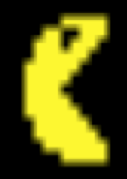
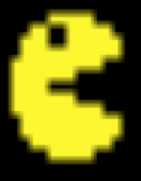
PacMan moves

diff --git a/Sprites.py b/Sprites.py
@@ -4,30 +4,37 @@ This module contains all of the classes responsible for controlling the sprites
 '''
 
 class Sprite:
-    def __init__(self, imageDir, start_x, start_y, is_CPU=True):                                                   # List/array of the images to use to render sprite.
+    def __init__(self, imageDir, start_x, start_y, is_CPU=True):
         self._current_x = start_x                                               # Current x coord.
         self._current_y = start_y                                               # Current y coord.
         self._imageDir = imageDir
-        self._current_image = './' + self._imageDir + '/right1.png'                                                # The current image that the sprite should be drawn as.
+        self._current_image = './' + self._imageDir + '/right1.png'             # The current image that the sprite should be drawn as.
+        self._image_index = 0
         self._is_CPU_controlled=is_CPU                                          # Is controlled by the CPU? By default, yes.
 
     # Move sprite left..
     def move_left(self):
         self._current_x -= 1
-        self._current_image = './' + self._imageDir + '/left1.png'
+        self._current_image = './' + self._imageDir + '/left' + str(self._image_index) + '.png'
+        self._image_index = (self._image_index + 1) % 3
 
     # Move sprite right
     def move_right(self):
         self._current_x += 1
-        self._current_image = './' + self._imageDir + '/right1.png'
+        self._current_image = './' + self._imageDir + '/right' + str(self._image_index) + '.png'
+        self._image_index = (self._image_index + 1) % 3
 
     # Move sprite up
     def move_up(self):
         self._current_y -= 1
+        self._current_image = './' + self._imageDir + '/up' + str(self._image_index) + '.png'
+        self._image_index = (self._image_index + 1) % 3
 
     # Move sprite down.
     def move_down(self):
         self._current_y += 1
+        self._current_image = './' + self._imageDir + '/down' + str(self._image_index) + '.png'
+        self._image_index = (self._image_index + 1) % 3
 
     def decide_action(self):
         if self._is_CPU_controlled:
